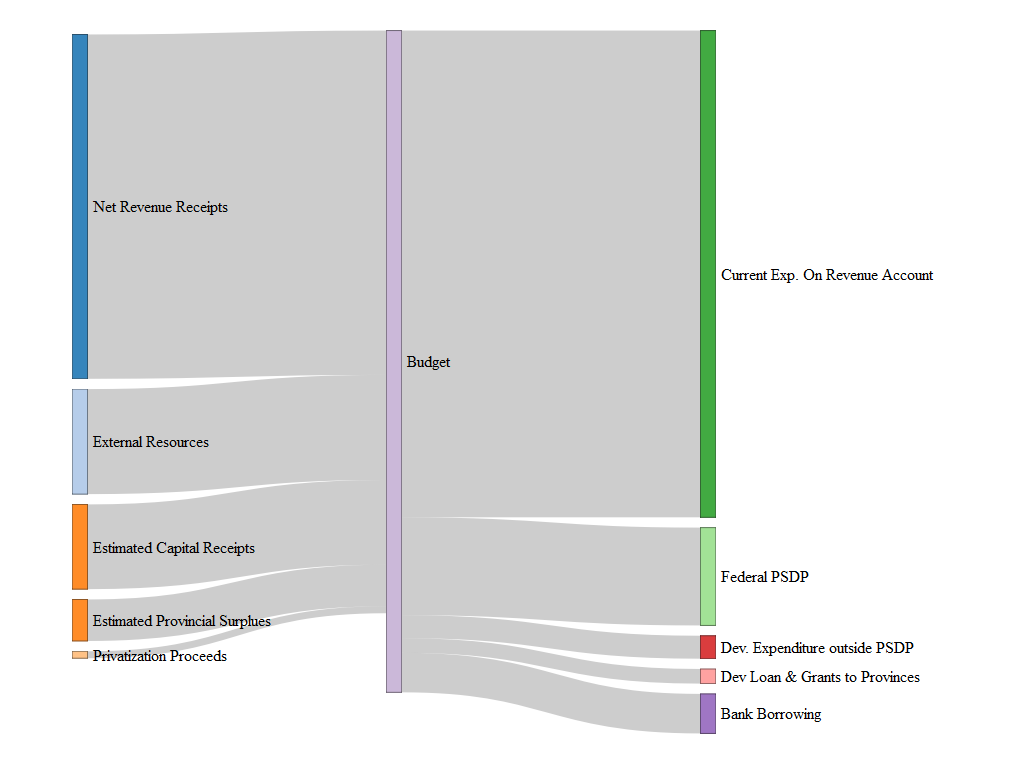
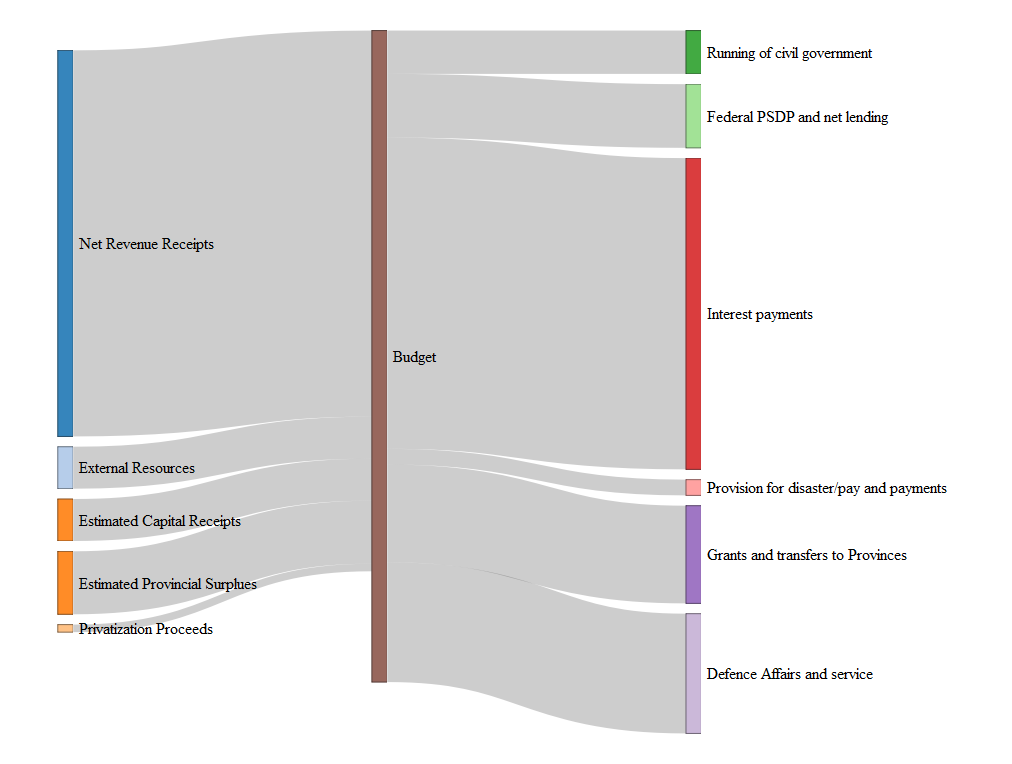
main files

Changed region(s): [[0.0306, 0.0301, 0.4901, 0.9332], [0.4901, 0.0301, 0.9496, 0.9634], [0.5514, 0.7526, 0.582, 0.7827]]

diff --git a/sn.html b/sn.html
@@ -1575,9 +1575,9 @@ return function(){for(var n=0,e=0;e<t;++e)n+=Math.random();return n}},um=functio
 </head>
 <body style="background-color: white;">
 <div id="htmlwidget_container">
-  <div class="sankeyNetwork html-widget html-fill-item-overflow-hidden html-fill-item" id="htmlwidget-2c6d3afad27b0bd6e63e" style="width:960px;height:500px;"></div>
+  <div class="sankeyNetwork html-widget html-fill-item-overflow-hidden html-fill-item" id="htmlwidget-280eb8253d8583227c62" style="width:960px;height:500px;"></div>
 </div>
-<script type="application/json" data-for="htmlwidget-2c6d3afad27b0bd6e63e">{"x":{"links":{"source":[0,1,2,3,4,11,11,11,11,11,11],"target":[11,11,11,11,11,5,6,7,8,9,10],"value":[4900,533,533,800,96,550,808,3950,200,1240,1520]},"nodes":{"name":["Net Revenue Receipts","External Resources","Estimated Capital Receipts","Estimated Provincial Surplues","Privatization Proceeds","Running of civil government","Federal PSDP and net lending","Interest payments","Provision for disaster/pay and payments","Grants and transfers to Provinces","Defence Affairs and service","Budget"],"group":["Net Revenue Receipts","External Resources","Estimated Capital Receipts","Estimated Provincial Surplues","Privatization Proceeds","Running of civil government","Federal PSDP and net lending","Interest payments","Provision for disaster/pay and payments","Grants and transfers to Provinces","Defence Affairs and service","Budget"]},"options":{"NodeID":"Name","NodeGroup":"Name","LinkGroup":null,"colourScale":"d3.scaleOrdinal(d3.schemeCategory20);","fontSize":16,"fontFamily":null,"nodeWidth":15,"nodePadding":10,"units":"","margin":{"top":null,"right":null,"bottom":null,"left":null},"iterations":32,"sinksRight":false}},"evals":[],"jsHooks":[]}</script>
-<script type="application/htmlwidget-sizing" data-for="htmlwidget-2c6d3afad27b0bd6e63e">{"viewer":{"width":450,"height":350,"padding":10,"fill":true},"browser":{"width":960,"height":500,"padding":10,"fill":true}}</script>
+<script type="application/json" data-for="htmlwidget-280eb8253d8583227c62">{"x":{"links":{"source":[0,1,2,3,4,11,11,11,11,11,11],"target":[11,11,11,11,11,5,6,7,8,9,10],"value":[4900,533,533,800,96,550,808,3950,200,1240,1520]},"nodes":{"name":["Net Revenue Receipts","External Resources","Estimated Capital Receipts","Estimated Provincial Surplues","Privatization Proceeds","Running of civil government","Federal PSDP and net lending","Interest payments","Provision for disaster/pay and payments","Grants and transfers to Provinces","Defence Affairs and service","Budget"],"group":["Net Revenue Receipts","External Resources","Estimated Capital Receipts","Estimated Provincial Surplues","Privatization Proceeds","Running of civil government","Federal PSDP and net lending","Interest payments","Provision for disaster/pay and payments","Grants and transfers to Provinces","Defence Affairs and service","Budget"]},"options":{"NodeID":"Name","NodeGroup":"Name","LinkGroup":null,"colourScale":"d3.scaleOrdinal(d3.schemeCategory20);","fontSize":16,"fontFamily":null,"nodeWidth":15,"nodePadding":10,"units":"","margin":{"top":null,"right":null,"bottom":null,"left":null},"iterations":32,"sinksRight":false}},"evals":[],"jsHooks":[]}</script>
+<script type="application/htmlwidget-sizing" data-for="htmlwidget-280eb8253d8583227c62">{"viewer":{"width":450,"height":350,"padding":10,"fill":true},"browser":{"width":960,"height":500,"padding":10,"fill":true}}</script>
 </body>
 </html>

diff --git a/docs/taxonomy-of-data.html b/docs/taxonomy-of-data.html
@@ -546,23 +546,23 @@
 </thead>
 <tbody>
 <tr class="odd">
-<td style="text-align: right;">16.0</td>
-<td style="text-align: right;">37.7</td>
-<td style="text-align: left;">Adelie</td>
+<td style="text-align: right;">17.1</td>
+<td style="text-align: right;">45.9</td>
+<td style="text-align: left;">Chinstrap</td>
 </tr>
 <tr class="even">
-<td style="text-align: right;">16.8</td>
-<td style="text-align: right;">37.3</td>
+<td style="text-align: right;">18.0</td>
+<td style="text-align: right;">36.5</td>
 <td style="text-align: left;">Adelie</td>
 </tr>
 <tr class="odd">
-<td style="text-align: right;">19.3</td>
-<td style="text-align: right;">37.6</td>
+<td style="text-align: right;">18.9</td>
+<td style="text-align: right;">40.5</td>
 <td style="text-align: left;">Adelie</td>
 </tr>
 <tr class="even">
-<td style="text-align: right;">17.6</td>
-<td style="text-align: right;">41.1</td>
+<td style="text-align: right;">17.0</td>
+<td style="text-align: right;">40.2</td>
 <td style="text-align: left;">Adelie</td>
 </tr>
 </tbody>

diff --git a/docs/learnR.html b/docs/learnR.html
@@ -5,7 +5,7 @@
 <meta name="generator" content="quarto-1.3.299">
 <meta name="viewport" content="width=device-width, initial-scale=1.0, user-scalable=yes">
 <meta name="author" content="Zahid Asghar">
-<title>dplyr 5 verbs for data wrangling</title>
+<title>5 verbs for data wrangling</title>
 <style>
 code{white-space: pre-wrap;}
 span.smallcaps{font-variant: small-caps;}
@@ -172,7 +172,7 @@ pre > code.sourceCode > span > a:first-child::before { text-decoration: underlin
   </ul></nav>
 </div>
 <main class="content" id="quarto-document-content"><header id="title-block-header" class="quarto-title-block default"><div class="quarto-title">
-<h1 class="title">dplyr 5 verbs for data wrangling</h1>
+<h1 class="title"><span class="flow">5 verbs for data wrangling</span></h1>
 </div>
 
 
